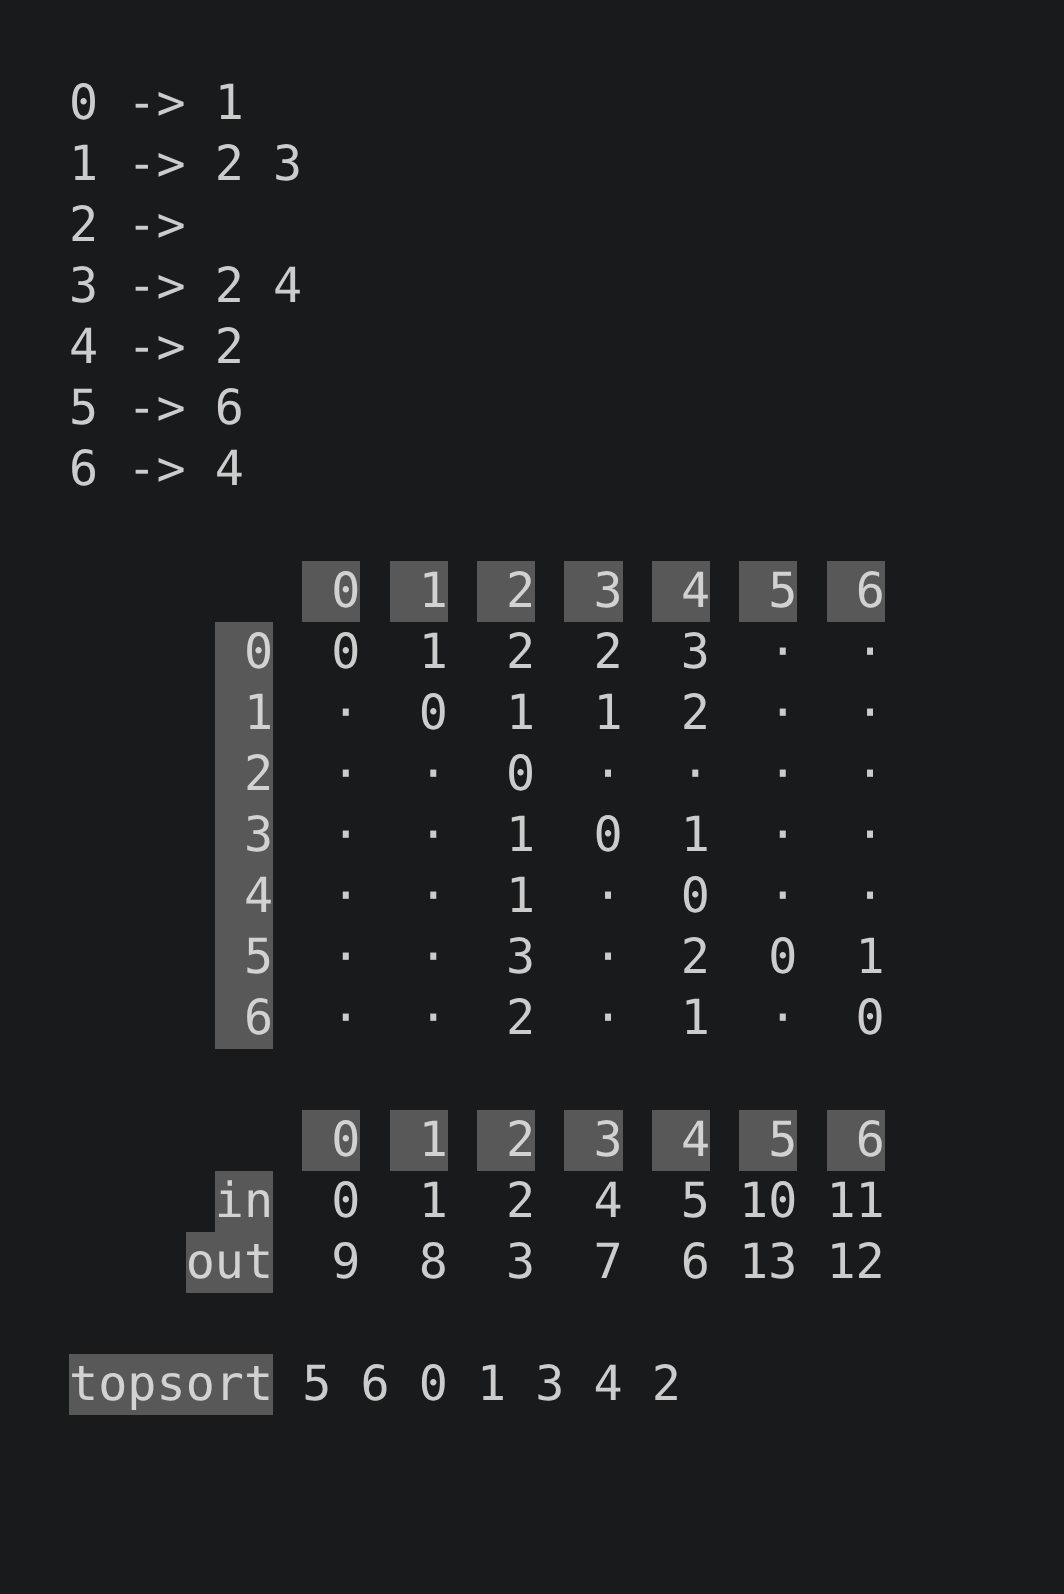
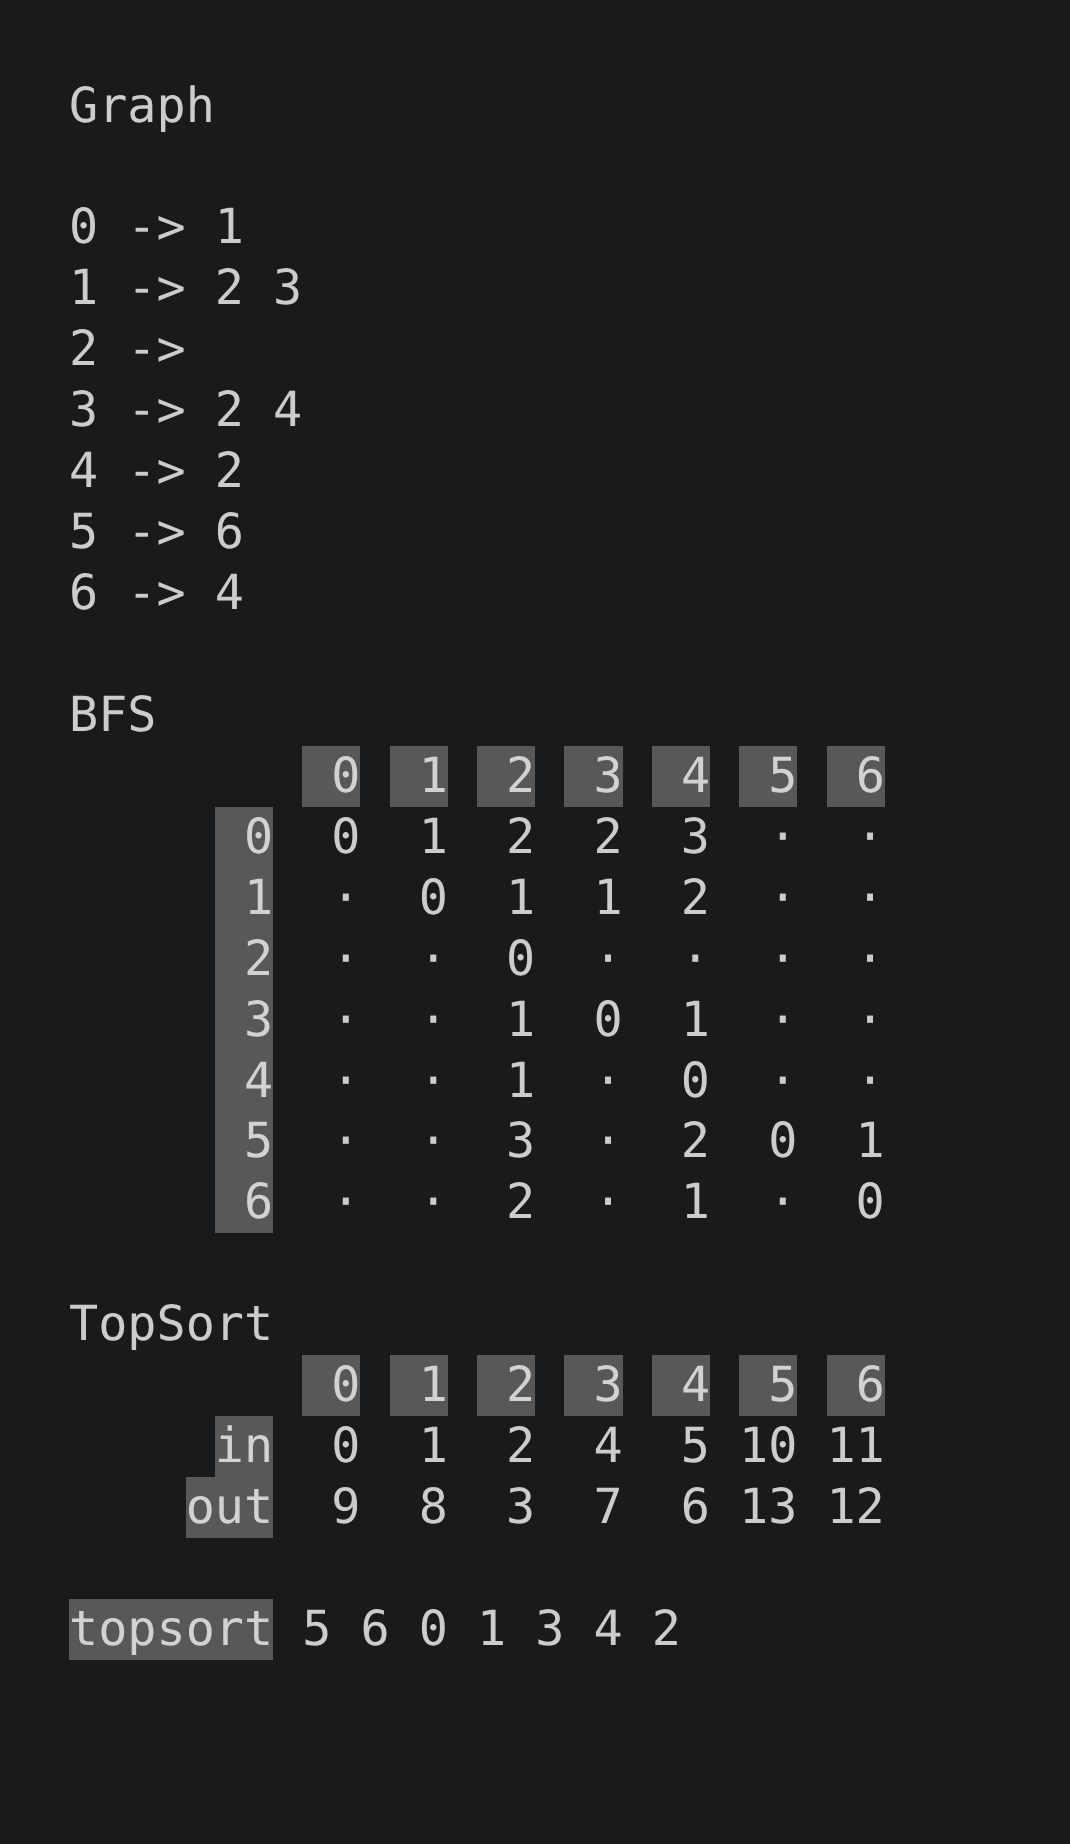
beauty

diff --git a/graph/traversal/traversal.cpp b/graph/traversal/traversal.cpp
@@ -75,6 +75,7 @@ ostream& operator<<(ostream& os, stack<int> stck) {
 }
 
 ostream& operator<<(ostream& os, const T_bfs& t) {
+    os << "BFS\n";
     const int w  = max(2,  (int)to_string(t.dist.size()).size());
     const int lw = max(LW, (int)to_string(t.dist.size()).size());
 
@@ -93,6 +94,8 @@ ostream& operator<<(ostream& os, const T_bfs& t) {
 }
 
 ostream& operator<<(ostream& os, const T_topsort& t) {
+    os << "TopSort\n";
+
     const int w  = max(2, (int)to_string(2 * t.in.size()).size());
 
     os << spaces(LW + 1);

diff --git a/graph/main.cpp b/graph/main.cpp
@@ -14,12 +14,12 @@ int main()
     g.topsort(t_top);
     cout << t_top << "\n\n";
 
-    // gg.demo_cyclic();
-    // cout << gg << "\n";
-    // gg.bfs(t_bfs);
-    // cout << t_bfs << "\n";
-    // gg.topsort(t_top);
-    // cout << t_top << "\n\n";
+    gg.demo_cyclic();
+    cout << gg << "\n";
+    gg.bfs(t_bfs);
+    cout << t_bfs << "\n";
+    gg.topsort(t_top);
+    cout << t_top << "\n\n";
 
     return 0;
 }

diff --git a/graph/graph/graph.cpp b/graph/graph/graph.cpp
@@ -89,6 +89,7 @@ ostream& operator<<(ostream& os, const vector<int>& a) {
 }
 
 ostream& operator<<(ostream& os, const Graph& g) {
+    os << "Graph\n\n";
     for (int i = 0; i < g.adj.size(); ++i)
         os << i << " -> " << g.adj[i] << '\n';
     return os;

diff --git a/graph/readme.md b/graph/readme.md
@@ -15,7 +15,8 @@
 - [x] topsort: in + out
 - [x] topsort: cycles
 - [x] bfs: dist
-- [ ] Взвешенный граф
-- [ ] Алгоритм Прима (мин. остовное дерево)
-- [ ] Алгоритм Крускала (мин. остовное дерево)
-- [ ] Алгоритм Дейкстры (поиск кратчайшего пути)
+- [ ] weighted graph
+- [ ] dijkstra
+- [ ] prim
+- [ ] kruskal
+- [ ] comments: complexity
